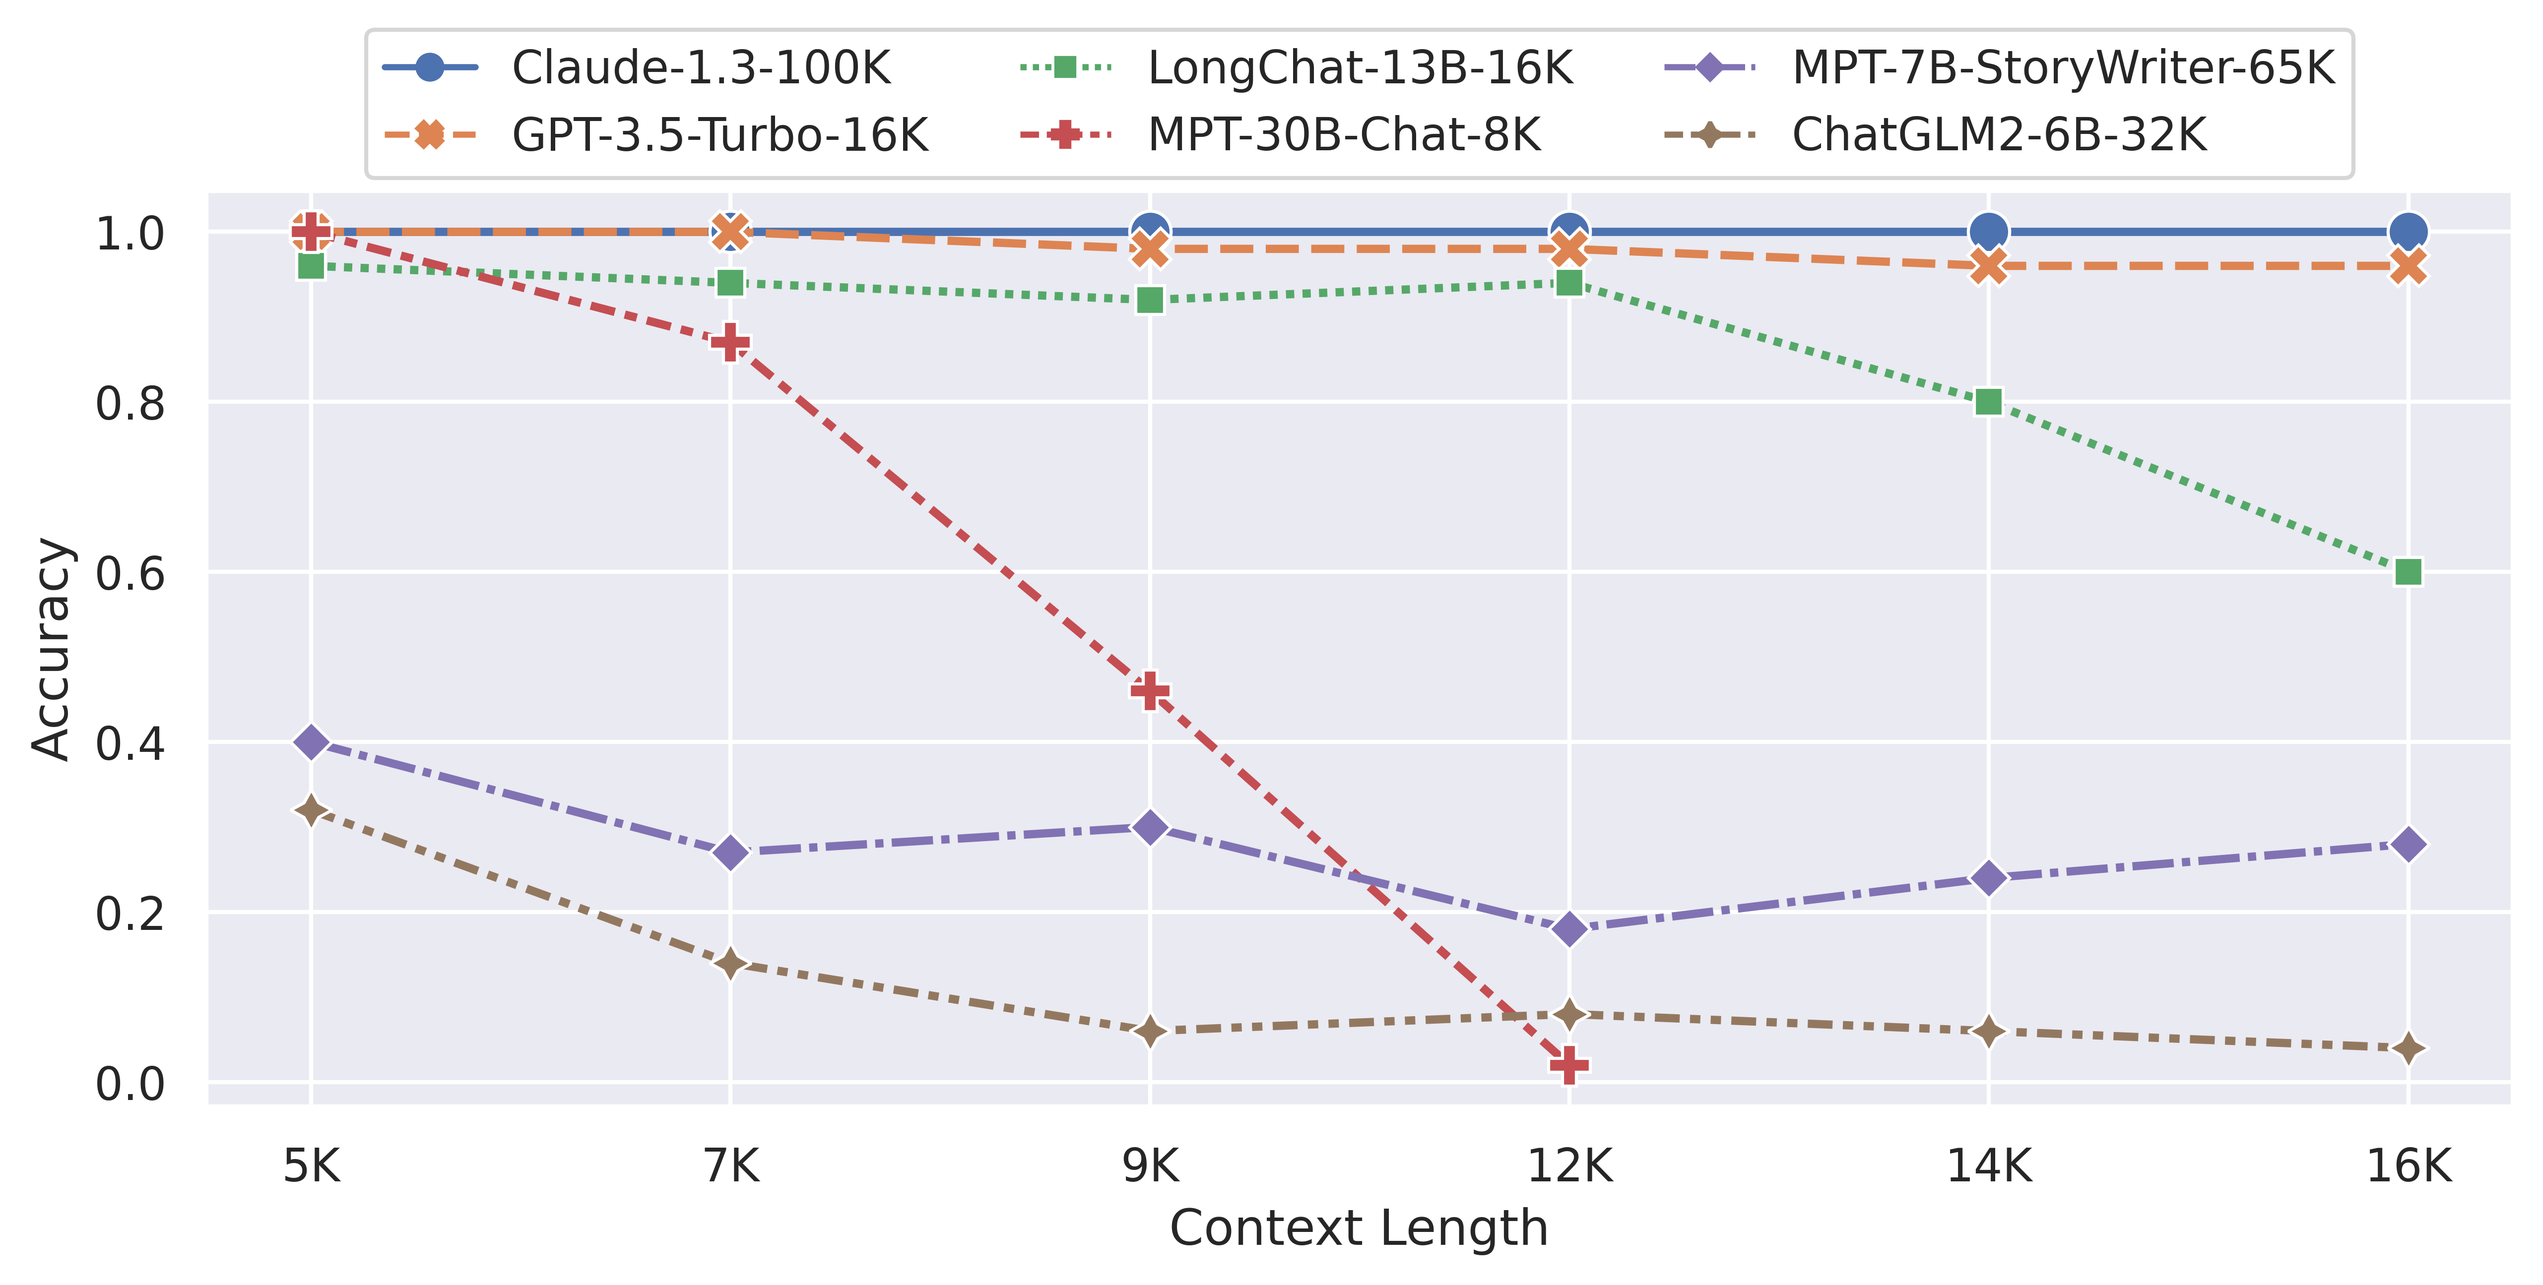
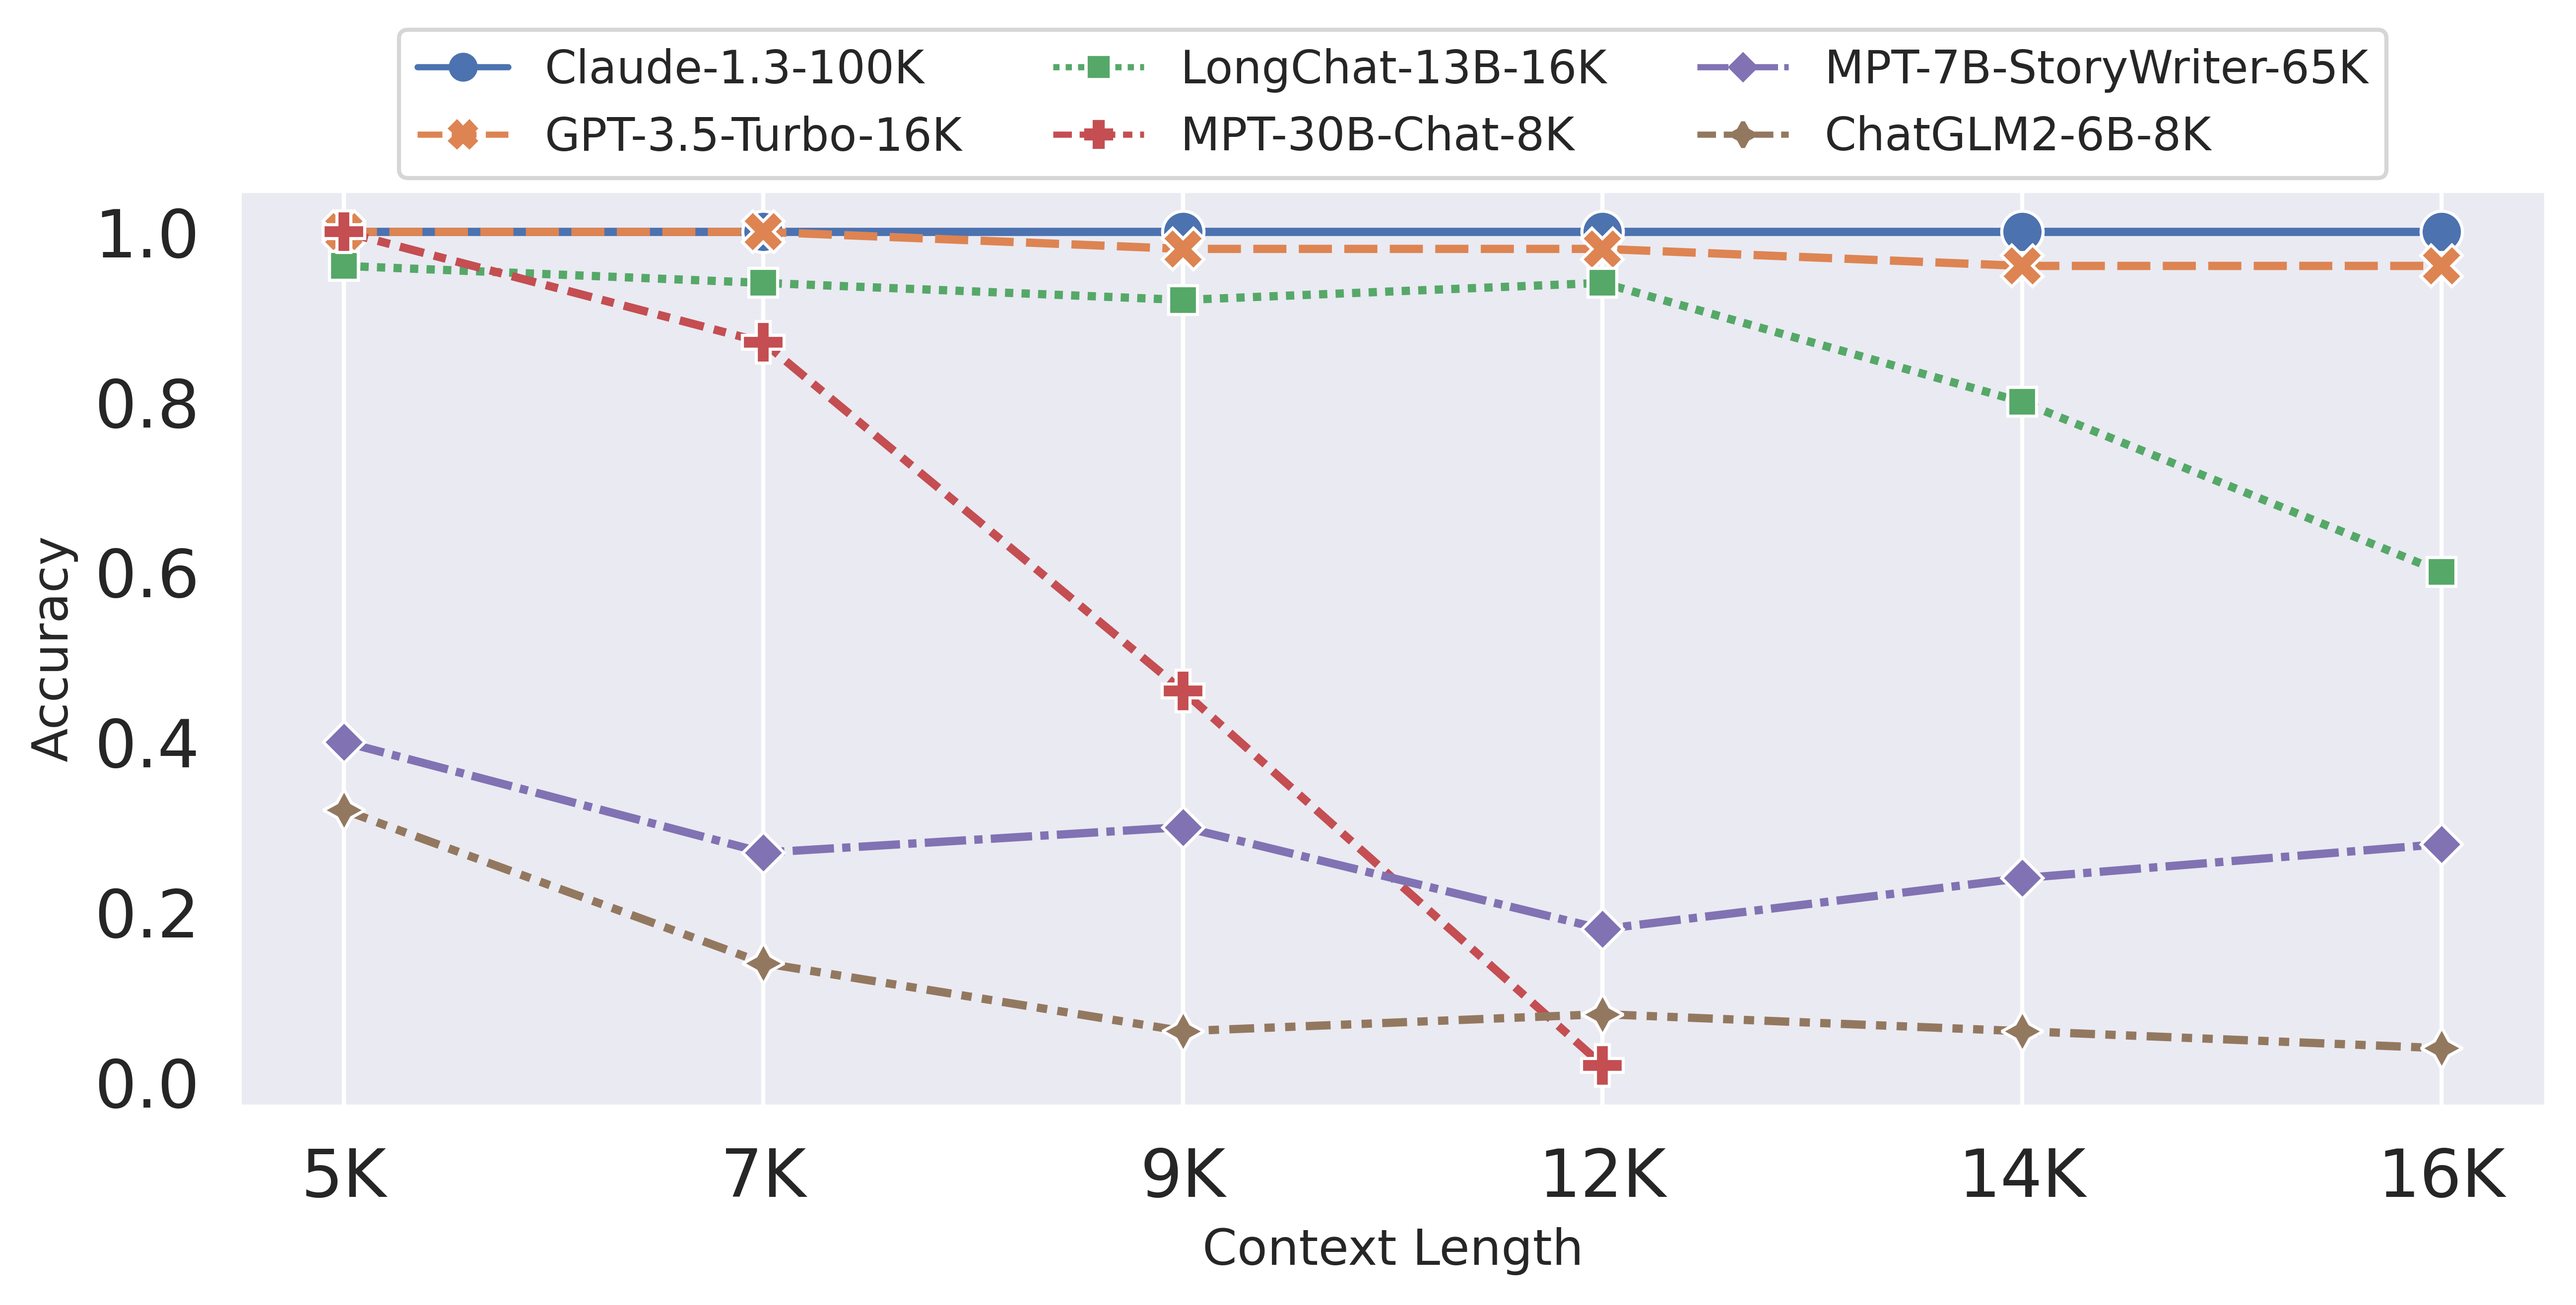
update

diff --git a/blog/2023-06-29-longchat.md b/blog/2023-06-29-longchat.md
@@ -6,7 +6,7 @@ previewImg: /images/blog/longchat/topic_retrieval_preview.png
 ---
 
 In this blogpost, we introduce our latest series of chatbot models, LongChat-7B and LongChat-13B, featuring a new level of extended context length up to 16K tokens.
-Evaluation results show that the long-range retrieval accuracy of LongChat-13B is up to 2x higher than other long context open models such as MPT-7B-storywriter (65K), MPT-30B-chat (8K), and ChatGLM2-6B (32k).
+Evaluation results show that the long-range retrieval accuracy of LongChat-13B is up to 2x higher than other long-context open models such as MPT-7B-storywriter (84K), MPT-30B-chat (8K), and ChatGLM2-6B (8k).
 LongChat shows promising results in closing the gap between open models and proprietary long context models such as Claude-100K and GPT-4-32K.
 
 <img src="/images/blog/longchat/topic_retrieval.png" style="display:block; margin-top: auto; margin-left: auto; margin-right: auto; margin-bottom: auto; width: 1000px;"></img>
@@ -25,9 +25,9 @@ python3 -m fastchat.serve.cli --model-path lmsys/longchat-7b-16k
 There has been a significant surge of interest within the open-source community in developing language models with longer context or extending the context length of existing models like LLaMA. 
 This trend has led to interesting observations and extensive discussions in various sources, such as [Kaiokendev’s blog](https://kaiokendev.github.io/context) and this [arXiv manuscript](https://arxiv.org/pdf/2306.15595.pdf); 
 meanwhile, several notable models have been released claiming to support much longer context than LLaMA, notable ones include:
-- [MPT-7B-storywriter](https://huggingface.co/mosaicml/mpt-7b-storywriter) supports 65K context length and extrapolates to 80K. 
+- [MPT-7B-storywriter](https://huggingface.co/mosaicml/mpt-7b-storywriter) supports 65K context length and extrapolates to 84K. 
 - [MPT-30B-chat](https://huggingface.co/spaces/mosaicml/mpt-30b-chat) supports 8K context length.
-- [ChatGLM2-6B](https://huggingface.co/THUDM/chatglm2-6b) supports 32K context.
+- [ChatGLM2-6B](https://huggingface.co/THUDM/chatglm2-6b) supports 8K context.
 
 At LMSYS Org, we have been concurrently exploring various techniques to lengthen the context of our models like [Vicuna](https://huggingface.co/lmsys/vicuna-13b-v1.3). 
 In this blogpost, alongside the release of the LongChat series, we share our [evaluation tools](https://github.com/DachengLi1/LongChat) to verify the long-context capability of LLMs. 
@@ -73,8 +73,8 @@ We finetune the model using standard next-token prediction loss. We fine-tune th
 To save memory, we use Pytorch FSDP and Flash Attention. Assume A100 is $3/hour on Cloud, the 7B model costs ~$300, and the 13B model costs ~$700. 
 
 ## Evaluation toolkits: LongEval
-Recently, commercial and open-source models have continued to tout their abilities to support expanded context length (from 8K, 32K, to 100K) in their latest releases, but how can we verify these claims?
-The term "long-context capability" can mean different things for different model providers. For instance, does [MPT-7B-StoryWriter's](https://huggingface.co/mosaicml/mpt-7b-storywriter) advertised 65K context length operate at the same capacity as OpenAI’s ChatGPT at 16K? 
+Recently, commercial and open-source models have continued to tout their abilities to support expanded context length (from 8K, 32K, 84K, to 100K) in their latest releases, but how can we verify these claims?
+The term "long-context capability" can mean different things for different model providers. For instance, does [MPT-7B-StoryWriter's](https://huggingface.co/mosaicml/mpt-7b-storywriter) advertised 84K context length operate at the same capacity as OpenAI’s ChatGPT at 16K? 
 This issue is also prevalent in our LongChat models development: how do we swiftly and effectively confirm if a freshly trained model can handle the intended context length?
 
 To address this, we can base our evaluations on tasks that necessitate LLMs to process lengthy contexts, such as text generation, retrieval, summarization, and information association in long text sequences. 
@@ -145,13 +145,13 @@ In particular, we consider four open-sourced models and two proprietary models, 
 
 ### LongEval results
 
-From the coarse-grained topic retrieval test results (Figure 2 at the beginning), we already observe the questionable performance of open-source long-context models. For instance, Mpt-7b-storywriter claims to have a context length of 84K but barely achieves 50% accuracy even at one-fourth of its claimed context length (16K). 
-chatglm2-6B cannot reliably retrieve the first topic even at the length of 6K (46% accuracy). Its accuracy falls to almost 0% when tested on > 10K context length. On the other hand, we observed that our LongChat-13B-16K model reliably retrieves the first topic, with comparable accuracy to gpt-3.5-turbo.
+From the coarse-grained topic retrieval test results (Figure 2 at the beginning), we already observe the probelmatic performance of open-source long-context models. For instance, Mpt-7b-storywriter claims to have a context length of 84K but barely achieves 50% accuracy even at one-fifth of its claimed context length (16K). 
+chatglm2-6B cannot reliably retrieve the first topic at the length of 6K (46% accuracy). On the other hand, we observed that our LongChat-13B-16K model reliably retrieves the first topic, with comparable accuracy to gpt-3.5-turbo.
 
 <img src="/images/blog/longchat/line_retrieval.png" style="display:block; margin-top: auto; margin-left: auto; margin-right: auto; margin-bottom: auto; width: 1000px;"></img>
 <p style="color:gray; text-align: center;">Figure 3: Accuracy on the long-range line retrieval task.</p>
 
-In the finer-grained line retrieval test, Mpt-7b-storywriter performs even worse than in the coarse-grained cases, dropping accuracy from ~50% to ~30%. Chatglm2-6B also observes degradation and does not perform well at the shortest length we test (5K context length). In contrast, we observe that LongChat-13B-16K performs reliably, achieving near gpt-3.5/Anthropic-claude ability within 12K context length (we also find the preview version is not perfect at 12K-16K, see discussion section).
+In the finer-grained line retrieval test, Mpt-7b-storywriter performs even worse than in the coarse-grained cases, dropping accuracy from ~50% to ~30%. Chatglm2-6B also observes degradation and does not perform well at 5K context length (32%). We notice that ChatGLM2-6B states that it has not been yet fully optimized for single-turn long document understanding, which could explain its current weak performance on LongEval. In contrast, we observe that LongChat-13B-16K performs reliably, achieving near gpt-3.5/Anthropic-claude ability within 12K context length (we also find the preview version is not perfect at 12K-16K, see discussion section).
 
 
 **Disentangle irrelevant LLM abilities in LongEval**
@@ -213,7 +213,7 @@ In our evaluations, commercial long-context models always fulfill their promise:
 <tr> <td><a target="_blank" href="https://huggingface.co/lmsys/longchat-13b-16k">LongChat-13B-16K </a> <td>16K</td> <td>⭐⭐⭐</td> <td>⭐⭐⭐</td> <td>⭐⭐</td></tr>
 <tr> <td><a target="_blank" href="https://huggingface.co/mosaicml/mpt-30b-chat">MPT-30B-chat</a></td> <td>8K</td> <td>⭐⭐⭐</td> <td>⭐⭐⭐</td> <td>⭐⭐</td></tr>
 <tr> <td><a target="_blank" href="https://huggingface.co/mosaicml/mpt-7b-storywriter">MPT-7B-storywriter</a></td> <td>80K</td> <td>⭐⭐⭐</td> <td>⭐⭐</td> <td>⭐</td></tr>
-<tr> <td><a target="_blank" href="https://huggingface.co/THUDM/chatglm2-6b">ChatGLM2-6B</a></td> <td>8K</td>  <td>⭐⭐⭐</td> <td>⭐</td> <td>⭐</td></tr>
+<tr> <td><a target="_blank" href="https://huggingface.co/THUDM/chatglm2-6b">ChatGLM2-6B</a></td> <td>8K</td>  <td>⭐⭐⭐</td> <td>⭐⭐</td> <td>⭐</td></tr>
 <tr> <td><a target="_blank" href="https://chat.openai.com/">GPT-3.5-turbo</a></td> <td>16K</td> <td>⭐⭐⭐</td> <td>⭐⭐⭐</td> <td>⭐⭐⭐</td></tr>
 <tr> <td><a target="_blank" href="https://www.anthropic.com/index/introducing-claude">Anthropic Claude-1.3</a></td> <td>100K</td> <td>⭐⭐⭐</td> <td>⭐⭐⭐</td> <td>⭐⭐⭐</td></tr>
 </tbody>
